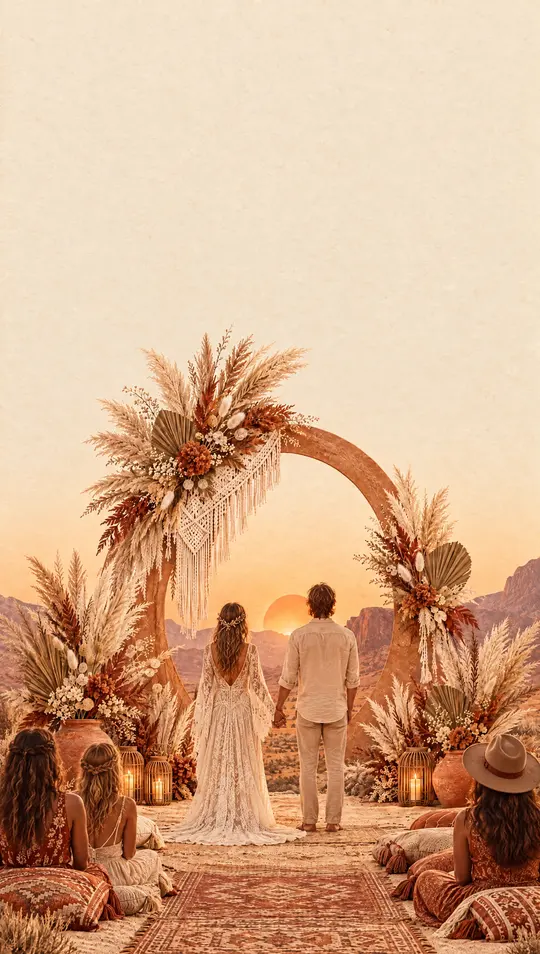
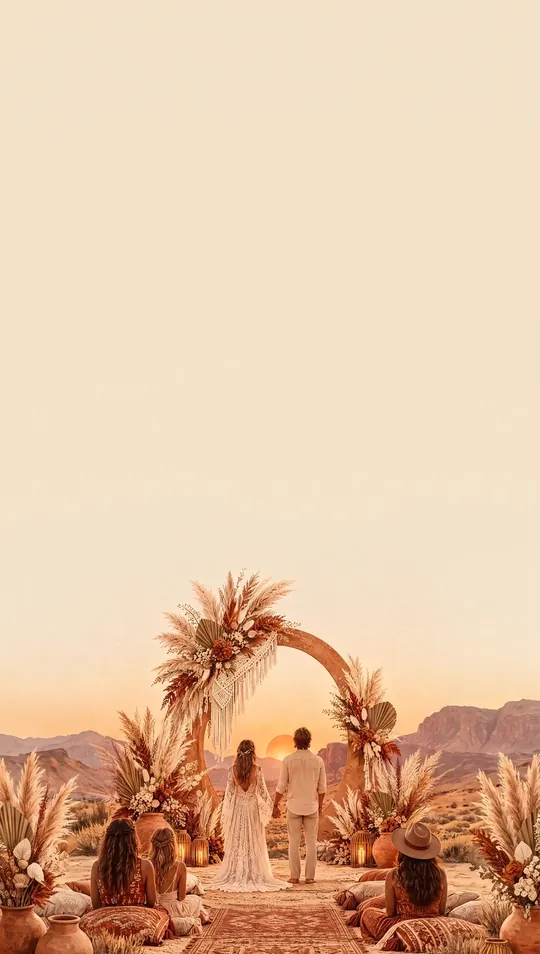
Vitrine en photos réelles ; Bohème lisible
Les 6 images de personnes (étapes et « Fait pour ceux que vous aimez ») sont
refaites en rendu photographique natif avec Gemini (règle 9), au lieu du style
peinture. Bohème : scènes 1 et 2 recadrées (l'original réduit et prolongé par
Gemini, ciel crème calme en haut), scène 3 en ciel de nuit pour le texte blanc ;
contrastes 6,5 à 6,8 (contre 1,9 à 3,8). Les animations des scènes 1 à 3, tirées
des anciennes images, sont retirées en attendant de nouvelles vidéos.

Claude-Session: https://claude.ai/code/session_01AkrEvskPLjnRwsS7RYYjCG

diff --git a/business/site/d/lena-adam/index.html b/business/site/d/lena-adam/index.html
@@ -23,7 +23,7 @@
 </head>
 <body>
 <noscript><p style="padding:24px;font-family:sans-serif">Léna &amp; Adam · 11 septembre 2027. Activez JavaScript pour ouvrir le faire-part.</p></noscript>
-<script>window.INVITE={"slug": "lena-adam", "demo": true, "theme": "boheme", "couple": ["Léna", "Adam"], "date": "2027-09-11T17:00", "opening": "cur", "palette": "#b0683f", "countdown": "page", "music": "nocturne", "intro": {"eyebrow": "Save the date"}, "events": [{"id": "ceremonie", "eyebrow": "La cérémonie", "title": "Sous l'arche de pampas", "start": "2027-09-11T17:00", "place": "Mas des Sables, Camargue", "address": "Saintes-Maries-de-la-Mer, 13460", "scene": 2}, {"id": "diner", "eyebrow": "Le dîner", "title": "À la belle étoile", "start": "2027-09-11T19:30", "place": "Coussins, bougies et ciel étoilé", "address": "Saintes-Maries-de-la-Mer, 13460", "scene": 3}], "infos": [{"icon": "dress", "title": "Tenue", "text": "Bohème et confortable. Prévoyez une petite laine pour la nuit."}], "rsvp": {"deadline": "2027-07-15", "eyebrow": "RSVP", "title": "Serez-vous des nôtres ?", "yesText": "On vous garde un coussin près du feu.", "noText": "On pensera fort à vous."}, "story": {"title": "Notre route", "items": [{"when": "2019", "title": "Un festival en Camargue", "text": "Une tente voisine, une lampe frontale prêtée, puis une autre."}, {"when": "2023", "title": "La route", "text": "Six mois en van, du Portugal à la Grèce."}, {"when": "2026", "title": "Le retour", "text": "Là où tout a commencé, sous les pins."}]}, "faq": {"items": [{"q": "Les enfants sont-ils invités ?", "a": "Oui ! Un espace jeux et une baby-sitter les attendent."}, {"q": "Peut-on dormir sur place ?", "a": "Quelques roulottes et un coin camping sont prévus. Dites-le-nous dans votre réponse."}, {"q": "Y a-t-il un parking ?", "a": "Oui, à l’entrée du mas. Covoiturage conseillé."}]}, "photos": {"text": "Le lendemain, partagez vos plus belles photos de la soirée dans notre album commun.", "url": "demo"}, "anim": [1, 2, 3, 4], "doormen": false, "trans": []};</script>
+<script>window.INVITE={"slug": "lena-adam", "demo": true, "theme": "boheme", "couple": ["Léna", "Adam"], "date": "2027-09-11T17:00", "opening": "cur", "palette": "#b0683f", "countdown": "page", "music": "nocturne", "intro": {"eyebrow": "Save the date"}, "events": [{"id": "ceremonie", "eyebrow": "La cérémonie", "title": "Sous l'arche de pampas", "start": "2027-09-11T17:00", "place": "Mas des Sables, Camargue", "address": "Saintes-Maries-de-la-Mer, 13460", "scene": 2}, {"id": "diner", "eyebrow": "Le dîner", "title": "À la belle étoile", "start": "2027-09-11T19:30", "place": "Coussins, bougies et ciel étoilé", "address": "Saintes-Maries-de-la-Mer, 13460", "scene": 3}], "infos": [{"icon": "dress", "title": "Tenue", "text": "Bohème et confortable. Prévoyez une petite laine pour la nuit."}], "rsvp": {"deadline": "2027-07-15", "eyebrow": "RSVP", "title": "Serez-vous des nôtres ?", "yesText": "On vous garde un coussin près du feu.", "noText": "On pensera fort à vous."}, "story": {"title": "Notre route", "items": [{"when": "2019", "title": "Un festival en Camargue", "text": "Une tente voisine, une lampe frontale prêtée, puis une autre."}, {"when": "2023", "title": "La route", "text": "Six mois en van, du Portugal à la Grèce."}, {"when": "2026", "title": "Le retour", "text": "Là où tout a commencé, sous les pins."}]}, "faq": {"items": [{"q": "Les enfants sont-ils invités ?", "a": "Oui ! Un espace jeux et une baby-sitter les attendent."}, {"q": "Peut-on dormir sur place ?", "a": "Quelques roulottes et un coin camping sont prévus. Dites-le-nous dans votre réponse."}, {"q": "Y a-t-il un parking ?", "a": "Oui, à l’entrée du mas. Covoiturage conseillé."}]}, "photos": {"text": "Le lendemain, partagez vos plus belles photos de la soirée dans notre album commun.", "url": "demo"}, "anim": [4], "doormen": false, "trans": []};</script>
 <script src="/themes.js"></script>
 <script src="/reveal.js"></script>
 <script src="/invite.js"></script>

diff --git a/business/landing/img/people/CREDITS.md b/business/landing/img/people/CREDITS.md
@@ -1,0 +1,5 @@
+# Images de personnes (vitrine)
+
+Générées avec Gemini (`business/tools/gemini.py`) en rendu photographique natif (règle 9 de `CLAUDE.md`) :
+choisir, parametrer, mamie (étapes « Comment ça marche ») ; famille, amis, reponses (« Fait pour ceux que vous aimez »).
+Personnes fictives. Remplacent les premières versions en style peinture, jugées artificielles.
